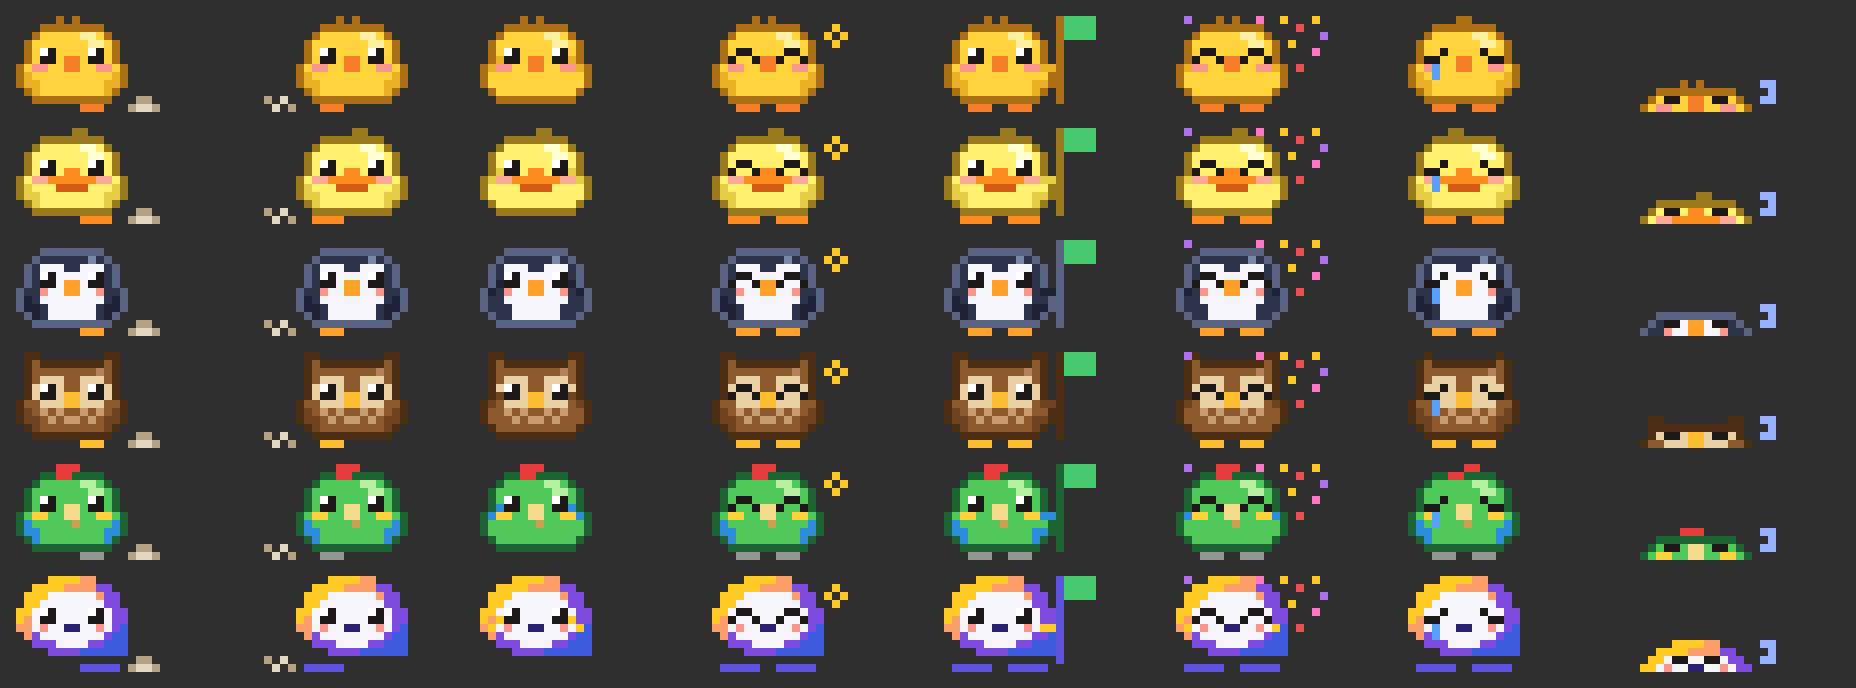
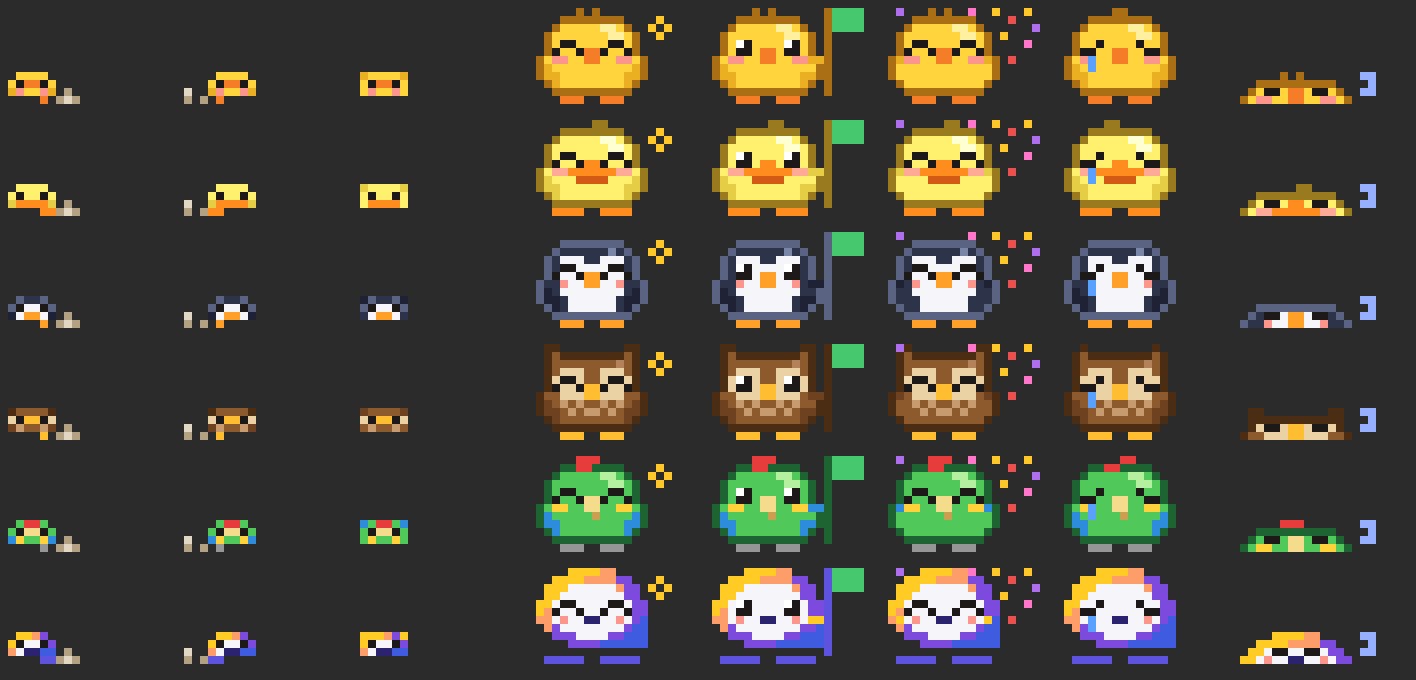
走动和飞回时缩成 2 行的小号，占位更小

diff --git a/hooks/sprites.ts b/hooks/sprites.ts
@@ -1,10 +1,11 @@
 // 像素宠物：每个字符格用 ▀ 画上下两个像素，打包成 Raster 的 cells
 import type { Pet } from '../types'
 
-export const W = 21 // 2 左翼留白 + 14 身体 + 5 道具
-/** 身体从第几列开始、有多宽；走路的造型只裁出身体这一段，好让尘土贴着身体画 */
-export const BODY_LEFT = 2
-export const BODY_W = 14
+export const W = 19 // 14 身体 + 5 道具
+/** 走路、飞回原位用的小号：4 行 × 6 列，在终端里只占 2 行 */
+export const TINY_W = 6
+/** 小号对齐大图身体（第 0–13 列）的中间，从小号换回大图时位置不跳 */
+export const TINY_LEFT = (14 - TINY_W) / 2
 
 // 所有宠物共用的颜色（眼睛、道具）；各宠物的身体颜色在 SPECIES 里
 const SHARED: Record<string, number> = {
@@ -31,6 +32,8 @@ type Species = {
   base: string[]
   /** 睡觉时的迷你版，4 行 */
   mini: string[]
+  /** 走路、飞回原位用的小号，4 行 × 6 列：第 1 行是眼睛，翅膀只用 `E` 放在第 2 行，第 3 行是脚 */
+  tiny: string[]
   face: string
   body: string
   /** 难过时替换第 0 行（呆毛耷拉） */
@@ -72,6 +75,12 @@ export const SPECIES = {
       '.DYKKYAAYKKYD.',
       'DYPPYYAAYYPPYD',
     ],
+    tiny: [
+      '.YYYY.',
+      'YKAAKY',
+      'EPYYPE',
+      '.A..A.',
+    ],
   },
   duck: {
     name: '小鸭',
@@ -107,6 +116,12 @@ export const SPECIES = {
       '.DYKKYAAYKKYD.',
       'DYPPAAAAAAPPYD',
     ],
+    tiny: [
+      '.YYYY.',
+      'YKYYKY',
+      'EAAAAE',
+      'AA..AA',
+    ],
   },
   penguin: {
     name: '企鹅',
@@ -140,6 +155,12 @@ export const SPECIES = {
       '..DDDDDDDDDD..',
       '.DNKKWAAWKKND.',
       'DNNPWWAAWWPNND',
+    ],
+    tiny: [
+      '.DNND.',
+      'DKWWKD',
+      'EWAAWE',
+      '.A..A.',
     ],
   },
   owl: {
@@ -175,6 +196,12 @@ export const SPECIES = {
       '.DDDDDDDDDDDD.',
       '.DTKKTAATKKTD.',
       'DGGTTTAATTTGGD',
+    ],
+    tiny: [
+      'DGGGGD',
+      'TKAAKT',
+      'EVGGVE',
+      '.A..A.',
     ],
   },
   parrot: {
@@ -213,6 +240,12 @@ export const SPECIES = {
       '.DGKKGAAGKKGD.',
       'DGPPGGAAGGPPGD',
     ],
+    tiny: [
+      '.GQQG.',
+      'GKAAKG',
+      'EPGGPE',
+      '.X..X.',
+    ],
   },
   alphaq: {
     name: 'alphaQ',
@@ -250,6 +283,12 @@ export const SPECIES = {
       '.YYWKKWWKKWUU.',
       'YYWPWWAAWWPWUU',
     ],
+    tiny: [
+      '.YYOU.',
+      'YKWWKU',
+      'OWAAVV',
+      'II..II',
+    ],
   },
 } satisfies Record<Pet, Species>
 
@@ -258,12 +297,11 @@ export const PETS = Object.keys(SPECIES) as Pet[]
 type Rows = Record<number, string>
 type Px = [number, number, string]
 
-function build(base: string[], extra: Px[] = [], rows: Rows = {}): string[] {
-  const g = base.map((r, i) => ('..' + (rows[i] ?? r)).padEnd(W, '.'))
+function build(base: string[], extra: Px[] = [], rows: Rows = {}, width = W): string[] {
+  const g = base.map((r, i) => (rows[i] ?? r).padEnd(width, '.'))
   for (const [r, c, ch] of extra) {
-    const x = c + 2
     const row = g[r] ?? ''
-    g[r] = row.slice(0, x) + ch + row.slice(x + 1)
+    g[r] = row.slice(0, c) + ch + row.slice(c + 1)
   }
   return g
 }
@@ -290,11 +328,18 @@ const WING_UP: Px[] = [[5, 2, 'E'], [5, 11, 'E'], [6, 1, 'E'], [6, 12, 'E']]
 // 右翅举起来握旗杆
 const holdFlag = (s: Species): Px[] => [[6, 12, 'E'], [6, 13, 'E'], [7, 12, s.body]]
 const TEARS: Px[] = [[6, 3, 'B'], [7, 3, 'B']]
-// 走路时左右脚轮流抬起，飞的时候脚收起来
-const clearFeet = (from: number, to: number): Px[] => range(from, to).map((c): Px => [11, c, '.'])
-const LIFT_LEFT = clearFeet(0, 7)
-const LIFT_RIGHT = clearFeet(7, 14)
-const TUCK_FEET = clearFeet(0, 14)
+
+// ---------- 小号：走路时左右脚轮流抬起，飞的时候收起脚、上下扇翅膀 ----------
+
+const tinyFeet = (from: number, to: number): Px[] => range(from, to).map((c): Px => [3, c, '.'])
+const LIFT_LEFT = tinyFeet(0, TINY_W / 2)
+const LIFT_RIGHT = tinyFeet(TINY_W / 2, TINY_W)
+const TUCK_FEET = tinyFeet(0, TINY_W)
+// 收起第 2 行的翅膀，再画到两角：举起来在头顶两角，放下来在脚的位置两角
+const hideTinyWings = (s: Species): Px[] =>
+  [...(s.tiny[2] ?? '')].flatMap((ch, c): Px[] => (ch === 'E' ? [[2, c, s.body]] : []))
+const TINY_WING_UP: Px[] = [[0, 0, 'E'], [0, TINY_W - 1, 'E']]
+const TINY_WING_DOWN: Px[] = [[3, 0, 'E'], [3, TINY_W - 1, 'E']]
 
 // ---------- 道具 ----------
 
@@ -314,10 +359,6 @@ const CONFETTI: Px[] = [
   [3, 14, 'S'], [4, 17, 'C'], [6, 15, 'R'], [0, 17, 'S'],
 ]
 const SPARKLE: Px[] = [[1, 15, 'S'], [2, 14, 'S'], [2, 16, 'S'], [3, 15, 'S']]
-const WINGS_OUT: Px[] = [
-  [4, -2, 'D'], [5, -2, 'E'], [5, -1, 'D'], [6, -2, 'D'], [6, -1, 'E'], [7, -1, 'E'],
-  [4, 15, 'D'], [5, 15, 'E'], [5, 14, 'D'], [6, 15, 'D'], [6, 14, 'E'], [7, 14, 'E'],
-]
 const MINI_Z: Px[] = [[0, 15, 'Z'], [0, 16, 'Z'], [1, 16, 'Z'], [2, 15, 'Z'], [2, 16, 'Z']]
 
 export type Pose =
@@ -327,10 +368,10 @@ export type Pose =
 function grids(s: Species): Record<Pose, string[]> {
   const sadTop: Rows = s.sadTop ? { 0: s.sadTop } : {}
   return {
-    walkL: build(s.base, LIFT_LEFT),
-    walkR: build(s.base, LIFT_RIGHT),
-    fly1: build(s.base, [...hideWings(s), ...WING_UP, ...TUCK_FEET]),
-    fly2: build(s.base, [...blink(s.face), ...hideWings(s), ...WINGS_OUT, ...TUCK_FEET]),
+    walkL: build(s.tiny, LIFT_LEFT, {}, TINY_W),
+    walkR: build(s.tiny, LIFT_RIGHT, {}, TINY_W),
+    fly1: build(s.tiny, [...TUCK_FEET, ...hideTinyWings(s), ...TINY_WING_UP], {}, TINY_W),
+    fly2: build(s.tiny, [...TUCK_FEET, ...hideTinyWings(s), ...TINY_WING_DOWN], {}, TINY_W),
     done: build(s.base, [...happy(s.face), ...SPARKLE]),
     sleep: build(s.base, [...blink(s.face), ...ZZZ]),
     open: build(s.base, [...holdFlag(s), ...FLAG]),
@@ -360,15 +401,15 @@ const SPACE = 0x20
 
 type Sprite = { columns: number; rows: number; cells: string }
 
-// 从第 from 列起取 width 列打包
-function pack(grid: string[], pal: Record<string, number>, from = 0, width = W): Sprite {
-  const g = grid.length % 2 ? [...grid, '.'.repeat(from + width)] : grid
+function pack(grid: string[], pal: Record<string, number>): Sprite {
+  const width = Math.max(...grid.map(r => r.length))
+  const g = grid.length % 2 ? [...grid, ''] : grid
   const rows = g.length / 2
   const words = new Uint32Array(width * rows * 3)
   let k = 0
   for (let r = 0; r < rows; r++) {
     const top = g[r * 2] ?? '', bot = g[r * 2 + 1] ?? ''
-    for (let c = from; c < from + width; c++) {
+    for (let c = 0; c < width; c++) {
       const t = pal[top.charAt(c)], b = pal[bot.charAt(c)]
       if (t !== undefined && b !== undefined) words.set([UPPER, t, b], k)
       else if (t !== undefined) words.set([UPPER, t, DEFAULT], k)
@@ -380,33 +421,28 @@ function pack(grid: string[], pal: Record<string, number>, from = 0, width = W):
   return { columns: width, rows, cells: toBase64(new Uint8Array(words.buffer)) }
 }
 
-const isWalk = (pose: string) => pose === 'walkL' || pose === 'walkR'
-
 export const SPRITES: Record<Pet, Record<Pose, Sprite>> = Object.fromEntries(
   PETS.map(pet => {
     const s: Species = SPECIES[pet]
     const pal = { ...SHARED, ...s.palette }
-    const poses = Object.entries(grids(s)).map(([pose, g]) => [
-      pose,
-      isWalk(pose) ? pack(g, pal, BODY_LEFT, BODY_W) : pack(g, pal),
-    ])
+    const poses = Object.entries(grids(s)).map(([pose, g]) => [pose, pack(g, pal)])
     return [pet, Object.fromEntries(poses)]
   }),
 ) as never
 
 // ---------- 尘土：走路时扬在身后，贴着脚的高度 ----------
 
-export const DUST_W = 4
+export const DUST_W = 3
 const DUST_PAL: Record<string, number> = { u: 0xb4a082, v: 0xe1d7c3 }
 // 尘土在身体右边（往左走）时的样子，靠身体的一侧在左；左边的是镜像。两帧：一团、散开
 const DUST_RIGHT = [
-  ['.uu.', 'uvvu'],
-  ['.v.u', 'u.v.'],
+  ['.u.', 'uvu'],
+  ['..v', 'u.u'],
 ]
 const mirror = (g: string[]) => g.map(r => [...r].reverse().join(''))
 
 export type DustSide = 'left' | 'right'
 export const DUST: Record<DustSide, Sprite[]> = {
-  right: DUST_RIGHT.map(g => pack(g, DUST_PAL, 0, DUST_W)),
-  left: DUST_RIGHT.map(g => pack(mirror(g), DUST_PAL, 0, DUST_W)),
+  right: DUST_RIGHT.map(g => pack(g, DUST_PAL)),
+  left: DUST_RIGHT.map(g => pack(mirror(g), DUST_PAL)),
 }

diff --git a/tests/chick.test.tsx b/tests/chick.test.tsx
@@ -371,8 +371,9 @@ test('隐藏时换宠物会让它重新出现', async ($, on) => {
   await ui.unmount()
 })
 
-// 原位在最右边：band 宽 100，宠物 21 列（左边留白 2 列 + 身体 14 列 + 道具 5 列），尘土 4 列
-const HOME_X = 100 - 21
+// band 宽 100：大图 19 列（身体 14 列 + 道具 5 列）靠右；走路的小号 6 列，原位对着大图身体的中间，尘土 3 列
+const TINY_LEFT = 4
+const HOME_X = 100 - 19 + TINY_LEFT
 
 type Found = { find: (q: never) => Promise<{ props: Record<string, unknown> } | undefined> }
 
@@ -407,15 +408,15 @@ test('处理中在屏幕上走来走去，到头折返，尘土扬在身后', as
   let ui = await $.ui.mount(BAND)
   expect(await walkPoseOf(ui)).toBeDefined()
   expect(await dustSide(ui)).toBe('right') // 往左走，尘土在右边
-  expect(await trackX(ui)).toBe(HOME_X - 10 + 2) // 走路时这一行从身体开始
+  expect(await trackX(ui)).toBe(HOME_X - 10)
   expect(await text(ui)).toContain('处理中')
   await ui.unmount()
 
-  // 走到最左边（79 列，15.8 秒）再往回走 5 列
+  // 走到最左边（85 列，17 秒）再往回走 5 列
   await clock.advance((HOME_X + 5) * 200 - 2000)
   ui = await $.ui.mount(BAND)
   expect(await dustSide(ui)).toBe('left') // 往右走，尘土在左边
-  expect(await trackX(ui)).toBe(5 + 2 - 4) // 这一行从尘土开始
+  expect(await trackX(ui)).toBe(5 - 3) // 这一行从尘土开始
   await ui.unmount()
 })
 
@@ -429,7 +430,7 @@ test('贴着左边往回走时，左边放不下尘土就不画', async ($, on) 
   const ui = await $.ui.mount(BAND)
   expect(await dustSide(ui)).toBeUndefined()
   expect(await walkPoseOf(ui)).toBeDefined()
-  expect(await trackX(ui)).toBe(1 + 2)
+  expect(await trackX(ui)).toBe(1)
   await ui.unmount()
 })
 
@@ -449,6 +450,53 @@ test('走路只换脚，不扇翅膀', async ($, on) => {
     await ui.unmount()
   }
   expect(seen).toEqual(['walkL', 'walkR', 'walkL', 'walkR'])
+})
+
+type Rastered = { find: (q: never) => Promise<{ props: Record<string, unknown> } | undefined> }
+
+async function sizeOf(ui: Rastered, key: string) {
+  const r = await ui.find({ type: 'Raster', key } as never)
+  return r ? `${String(r.props.rows)}x${String(r.props.columns)}` : undefined
+}
+
+test('走路、飞回时缩成 2 行 × 6 列的小号，落地后变回大图', async ($, on) => {
+  const clock = engine(on, { branch: null, gh: '[]', mergedIntoDev: false })
+  on('turn.start', (_, e) => ({ turnId: e.turnId }))
+  on('turn.complete', () => ({ text: '' }))
+  await $.session.start({ cwd: '/repo', surface: 'terminal', isInteractive: true })
+
+  await $.turn.start({ text: 'hi', turnId: 't1' })
+  await clock.advance(2000)
+  let ui = await $.ui.mount(BAND)
+  const pose = await walkPoseOf(ui)
+  expect(await sizeOf(ui, `chick-${pose}`)).toBe('2x6')
+  await ui.unmount()
+
+  await $.turn.complete({
+    answer: 'ok', durationMs: 2000, isAborted: false, turnId: 't1', reason: 'answer',
+  })
+  ui = await $.ui.mount(BAND)
+  expect(await sizeOf(ui, await rasterKey(ui))).toBe('2x6')
+  await ui.unmount()
+
+  await clock.advance(600)
+  ui = await $.ui.mount(BAND)
+  expect(await sizeOf(ui, 'chick-done')).toBe('6x19')
+  await ui.unmount()
+})
+
+test('处理中途演 PR 动画时用大图，身体对着小号的位置，不超出右边', async ($, on) => {
+  engine(on, { branch: 'feature/x', gh: '[]', mergedIntoDev: false })
+  on('turn.start', (_, e) => ({ turnId: e.turnId }))
+  on('tool.call', () => ({ result: {}, text: 'https://github.com/o/r/pull/3\n' }))
+  await $.session.start({ cwd: '/repo', surface: 'terminal', isInteractive: true })
+
+  await $.turn.start({ text: 'hi', turnId: 't1' })
+  await $.tool.call({ tool: 'Bash', command: 'gh pr create --fill' })
+  const ui = await $.ui.mount(BAND)
+  expect(await sizeOf(ui, 'chick-open')).toBe('6x19')
+  expect(await trackX(ui)).toBe(HOME_X - TINY_LEFT) // 19 列正好贴着右边
+  await ui.unmount()
 })
 
 test('气泡固定在右边，不跟着宠物走', async ($, on) => {
@@ -561,7 +609,7 @@ test('飞回时间按距离算：再远也最多飞 2.5 秒', async ($, on) => {
   on('turn.complete', () => ({ text: '' }))
   await $.session.start({ cwd: '/repo', surface: 'terminal', isInteractive: true })
 
-  await walkThenComplete($, clock, 279 * 200, WIDE) // 走到最左边：离原位 279 列，按速度要 7 秒
+  await walkThenComplete($, clock, 285 * 200, WIDE) // 走到最左边：离原位 285 列，按速度要 7.1 秒
   await clock.advance(2400)
   expect(await isFlying($, WIDE)).toBe(true)
   await clock.advance(200)

diff --git a/hooks/register.tsx b/hooks/register.tsx
@@ -2,7 +2,7 @@ import { atom, read, update } from 'claude-code'
 import type { EngineInterface, ProcessRunResult, Register, Timer } from 'claude-code'
 
 import type { BranchPr, Flash, FlashKind, Flight, Pet, PrState } from '../types'
-import { BODY_LEFT, DUST, DUST_W, PETS, SPECIES, SPRITES, W } from './sprites'
+import { DUST, DUST_W, PETS, SPECIES, SPRITES, TINY_LEFT, W } from './sprites'
 import type { DustSide, Pose } from './sprites'
 
 const workingSince = atom({ plugin: 'chick-status', key: 'workingSince' } as const, null)
@@ -52,7 +52,7 @@ type Dollar = EngineInterface
 
 let ticker: Timer | undefined
 let tickerMs = 0
-/** 最近一次画的时候宠物最远能走到哪一列；起飞时用来算飞多远 */
+/** 最近一次画的时候小号的原位（最远能走到哪一列）；起飞时用来算飞多远 */
 let lastMaxX = 79
 let poller: Timer | undefined
 let isRefreshing = false
@@ -500,24 +500,25 @@ export const register: Register = on => {
     const art = <Raster key={`${who}-${pose}`} columns={sprite.columns} rows={sprite.rows} cells={sprite.cells} />
 
     const columns = e.props.bodyColumns
-    const maxX = columns - W
+    // 小号的原位：和右边大图的身体居中对齐
+    const maxX = columns - W + TINY_LEFT
     lastMaxX = maxX
     const isWalking = since !== null && !flying && !activeFlash
 
-    // 处理中在下面一行走来走去，完成后飞回最右边；气泡固定在右边
+    // 处理中缩成小号在下面一行走来走去，完成后飞回原位；气泡固定在右边
     if (since !== null || flying) {
       const x = flying ? flyX(fl, now, maxX) : walkX(now - (since ?? now), maxX)
+      // 处理中途来了 PR 动画：这几秒用大图，身体仍对着小号的位置
       let track = (
-        <Box key="pet-track" marginLeft={x}>
+        <Box key="pet-track" marginLeft={flying ? x : Math.max(0, x - TINY_LEFT)}>
           {art}
         </Box>
       )
       if (isWalking) {
-        // 走路的造型只有身体那一段；尘土扬在身后（和走的方向相反），左边放不下就不画
+        // 尘土扬在身后（和走的方向相反），左边放不下就不画
         const walked = now - since
         const side: DustSide = walkDir(walked, maxX) === 'left' ? 'right' : 'left'
-        const bodyX = x + BODY_LEFT
-        const hasDust = side === 'right' || bodyX >= DUST_W
+        const hasDust = side === 'right' || x >= DUST_W
         const puff = DUST[side][Math.floor(walked / STEP_MS) % 2]
         const dust = hasDust && puff && (
           <Raster key={`dust-${side}`} columns={DUST_W} rows={puff.rows} cells={puff.cells} />
@@ -525,7 +526,7 @@ export const register: Register = on => {
         track = (
           <Box
             key="pet-track"
-            marginLeft={hasDust && side === 'left' ? bodyX - DUST_W : bodyX}
+            marginLeft={hasDust && side === 'left' ? x - DUST_W : x}
             flexDirection="row"
             alignItems="flex-end"
           >
